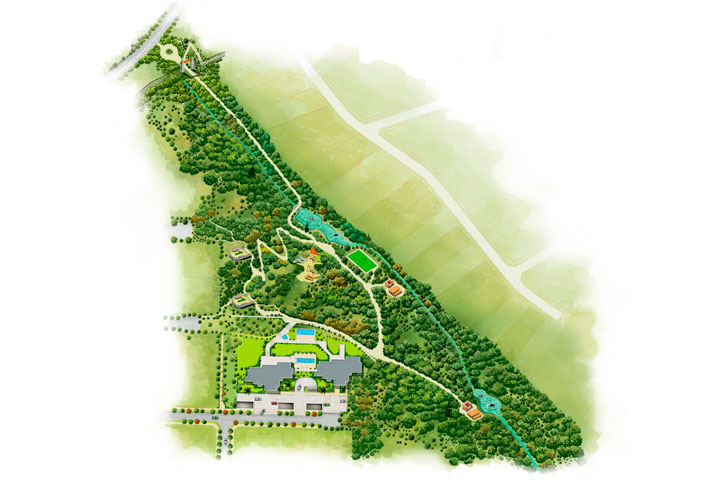
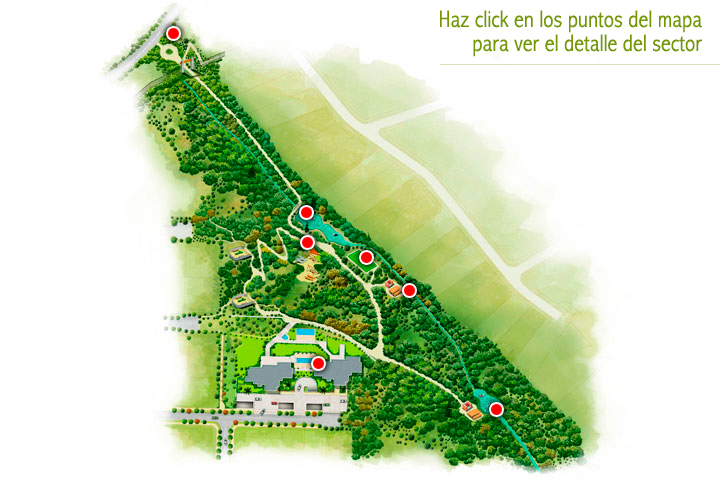
Commit's Info:
- Se cambió imagen de masterplan por una que indica los puntos
  cliqueables.
- Se cambió boton 'Video' por boton 'Master Plan' en modalbox
- Se ajustaron las coordenadas del masterplan, para que calzara
  con nueva imagen.
- Se agregó imagen con transparencia a ambos lados del Slider
- Se agregó texto en footer.
- Se modificó el alto del contenido principal del sitio.

Changed region(s): [[0.1833, 0.0312, 0.825, 0.9688], [0.6111, 0.0, 0.9778, 0.125]]

diff --git a/modal/masterplan.htm b/modal/masterplan.htm
@@ -6,19 +6,19 @@
                     shape="RECT" coords="180,23,158,41" href="modal.html?page=mp1&iframe=true&width=800&height=600">
                 
                 <area alt="Pulsa para ver la página de mis amigos"
-                    shape="CIRCLE" coords="300,170,8" href="modal.html?page=mp2&iframe=true&width=800&height=600">
+                    shape="CIRCLE" coords="310,170,12" href="modal.html?page=mp2&iframe=true&width=800&height=600">
 
                 <area alt="Pulsa para ver la página de mis amigos"
-                    shape="CIRCLE" coords="310,210,8" href="modal.html?page=mp3&iframe=true&width=800&height=600">
+                    shape="CIRCLE" coords="310,200,8" href="modal.html?page=mp3&iframe=true&width=800&height=600">
                                         
                 <area alt="Pulsa para ver la página de mis amigos"
                     shape="CIRCLE" coords="360,210,8" href="modal.html?page=mp4&iframe=true&width=800&height=600">
                     
                 <area alt="Pulsa para ver la página de mis amigos"
-                    shape="CIRCLE" coords="330,290,8" href="modal.html?page=mp5&iframe=true&width=800&height=600">
+                    shape="CIRCLE" coords="315,300,8" href="modal.html?page=mp5&iframe=true&width=800&height=600">
                     
                 <area alt="Pulsa para ver la página de mis amigos"
-                    shape="CIRCLE" coords="400,250,8" href="modal.html?page=mp6&iframe=true&width=800&height=600">
+                    shape="CIRCLE" coords="410,245,8" href="modal.html?page=mp6&iframe=true&width=800&height=600">
 
                 <area alt="Pulsa para ver la página de mis amigos"
                     shape="CIRCLE" coords="494,340,8" href="modal.html?page=mp7&iframe=true&width=800&height=600">

diff --git a/css/main.css b/css/main.css
@@ -77,14 +77,15 @@ a.nivo-nextNav{
 #main-content{
     background: url('../img/landing/fondo_landing.png')no-repeat scroll 50% 100px transparent;
     position: relative;
-    height: 743px;
+    height: 512px;
     width: 100%;
 }
 #transp{
-    /*background: url('../img/landing/fondo_landing.png')no-repeat scroll 50% 100px transparent;*/
+    background: url('../img/landing/transparencia.png')no-repeat scroll 50% 100px transparent;
     position: relative;
     height: 743px;
     width: 100%;
+    background-position: top;
 }
 
 #img-left{
@@ -106,7 +107,7 @@ a.nivo-nextNav{
     float: left;
 }
 #slider{
-    height: 743px;
+    height: 512px;
     width: 1050px;
 }
 
@@ -160,14 +161,26 @@ a.nivo-nextNav{
     height: 115px;
     width: 100%;
     position: relative;
+    z-index: 50;
 }
 #footer div{
     width: 1050px;
     height: 115px;
     margin: 0 auto;
+    position: relative;
+}
+#footer .content p#info{
+    font-family: sans-serif;
+    margin: 0 !important;
+    width: 511px;
+    color: #ffffff;
+    position: absolute;
+    top: 15px;
 }
 #footer div img{
-    float: right;
+    position: absolute;
+    right: 25px;
+    top: 15px;
 }
 /*#footer img:first-child{
     left: 600px;

diff --git a/index.html b/index.html
@@ -66,6 +66,12 @@
             
             <div id="footer">
                 <div class="content">
+                    <p id="info">
+                        Sala de ventas<br   />
+                        Petalonia 475, Jardin del Mar, Reñaca - Viña del Mar, V Región.<br   />
+                        Lunes a Domingo de 10:30 a 14:00 y de 15:30 a 19:00 hrs. <br   />
+                        Teléfono: +032 211 34 65<br   />
+                    </p>
                     <img src="img/landing/logo_desco.jpg"    />
                 </div>
             </div>

diff --git a/modal/modal.html b/modal/modal.html
@@ -40,7 +40,7 @@
                         <img id="btn_virtual" src="../img/modal/boton_tour.png" />
                     </a>
                     <a href="modal.html?page=masterplan&iframe=true&width=800&height=600">
-                        <img id="btn_video" src="../img/modal/boton_video.png" />
+                        <img id="btn_video" src="../img/modal/boton_master_plan.png" />
                     </a>
                 </div>
             </div>
